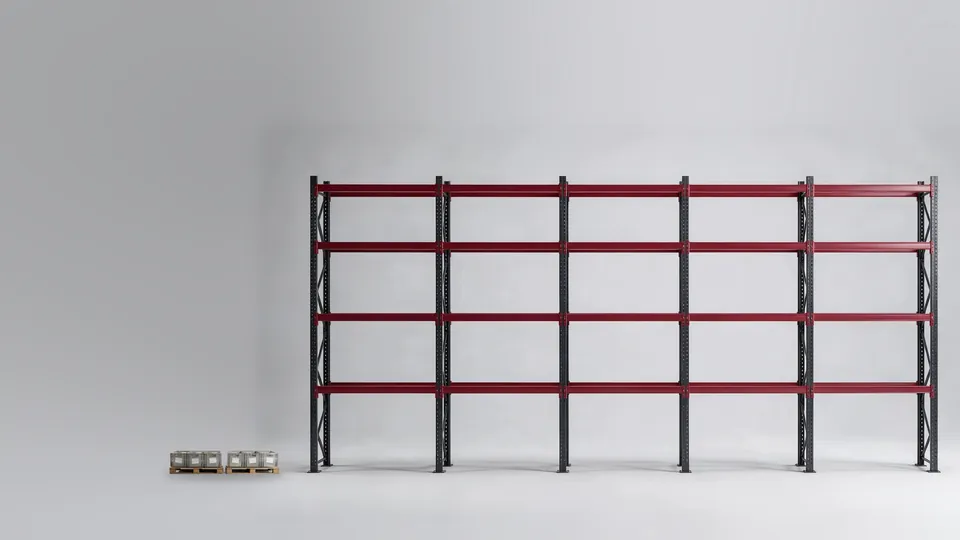
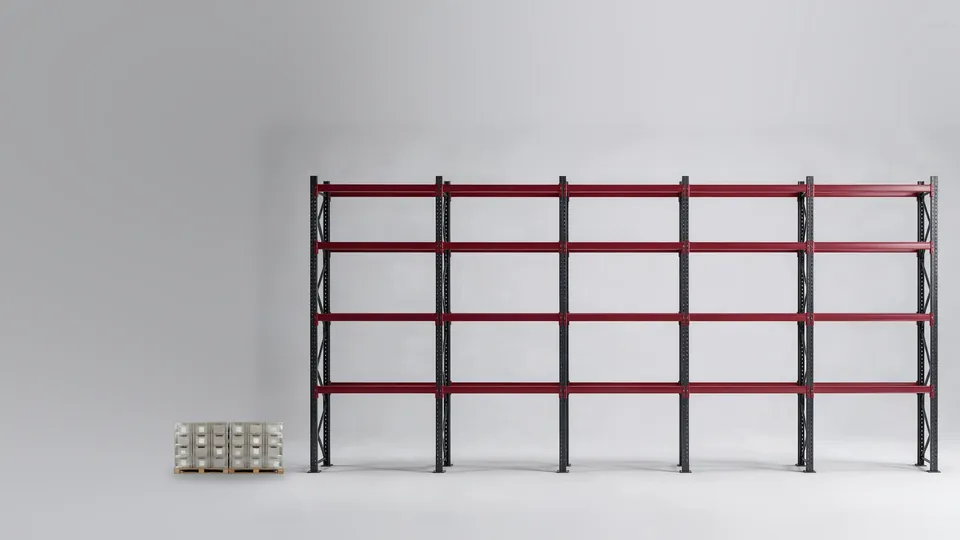
2. grup: 24 kasa 6x4 olcekli (studyo + olcek), rafin sol ucunda; kiris yapisi temiz

Changed region(s): [[0.1562, 0.7704, 0.3125, 0.8889]]

diff --git a/index.html b/index.html
@@ -191,7 +191,7 @@ html.js .gor.acik{opacity:1;transform:none}
 document.documentElement.classList.add('js');
 var RAF=[
  {no:'06',ad:'1. grup',g:'grup1',detaysiz:1,alt:'Sırt sırta iki sıra, aralarında 250 mm. Ana koridorun önünde, sarı zemin çizgisi boyunca.',goz:[2700,2700,2700,2700,2700,1800],top:'16 000',y:'6 500',d:'2 × 1 050 + 250',k:'2 100 · 1 630 · 1 620 · 1 150'},
- {no:'07',ad:'2. grup',g:'grup2',alt:'Tek sıra, sağ duvar boyunca. Rafta palet üstünde koli; plastik kasalar (24 adet, 2 palet) rafın yanında, raftan bağımsız.',goz:[2700,2700,2700,2700,2700],top:'14 200',y:'6 500',d:'1 050',k:'2 100 · 1 630 · 1 620 · 1 150'},
+ {no:'07',ad:'2. grup',g:'grup2',alt:'Tek sıra, sağ duvar boyunca. Rafta palet üstünde koli; 24 plastik kasa (6 yan yana × 4 kat, 2 palet) rafın sol ucunda, raftan bağımsız.',goz:[2700,2700,2700,2700,2700],top:'14 200',y:'6 500',d:'1 050',k:'2 100 · 1 630 · 1 620 · 1 150'},
  {no:'08',ad:'3. grup',g:'grup3',alt:'Tek sıra, ana koridorun arka bölümü.',goz:[3000,3000],top:'6 000',y:'4 500',d:'1 050',k:'2 180 · 2 320'},
  {no:'09',ad:'4. grup, uzun sıra',g:'grup4_uzun',detaysiz:1,alt:'Tek sıra, pencereli duvar boyunca.',goz:[2700,2700,2700,2700,2700],top:'14 000',y:'4 500',d:'1 050',k:'2 180 · 2 320'},
  {no:'10',ad:'4. grup, kısa sıra',g:'grup4_kisa',detaysiz:1,alt:'Tek sıra, makine hattının önünde.',goz:[2700,2700,2700,2700,2000],top:'13 500',y:'4 500',d:'1 050',k:'2 180 · 2 320'}
@@ -203,7 +203,7 @@ try{
  RAF.forEach(function(r){
   var gz=r.goz.map(function(w){return '<div style="flex:'+w+'">'+w+'</div>';}).join('');
   var h='<section class="gor"><div class="bas"><span class="no">'+r.no+'</span><div><h2>'+r.ad+'</h2><p class="alt">'+r.alt+'</p></div></div>'+
-   '<div class="raf"><figure class="foto">'+im(r.g+'_studyo',r.ad+' önden görünüm')+'<figcaption>'+(r.g=='grup2'?'Önden görünüm · solda raftan bağımsız 6 plastik kasa (2 palet, 120×80)':'Önden görünüm')+'</figcaption></figure>'+
+   '<div class="raf"><figure class="foto">'+im(r.g+'_studyo',r.ad+' önden görünüm')+'<figcaption>'+(r.g=='grup2'?'Önden görünüm · solda raftan bağımsız 24 plastik kasa (6 yan yana × 4 kat, 2 palet 120×80)':'Önden görünüm')+'</figcaption></figure>'+
    '<div class="olcu"><div class="gozler" aria-label="Göz genişlikleri">'+gz+'</div><div class="toplam">Toplam '+r.top+' mm</div>'+
    '<div class="degerler"><div class="deger"><span>Yükseklik</span><b>'+r.y+'</b></div><div class="deger"><span>Derinlik</span><b>'+r.d+'</b></div>'+
    '<div class="deger"><span>Göz</span><b>'+(r.goz.length*r.k.split('·').length*(r.g=='grup1'?2:1))+'</b><small style="display:block;font-size:12px;opacity:.7">'+r.goz.length+' bölme × '+r.k.split('·').length+' kat'+(r.g=='grup1'?' × 2 sıra':'')+'</small></div><div class="deger"><span>Kiriş aralıkları (alttan)</span><b style="font-size:15px">'+r.k+'</b></div></div></div>'+
